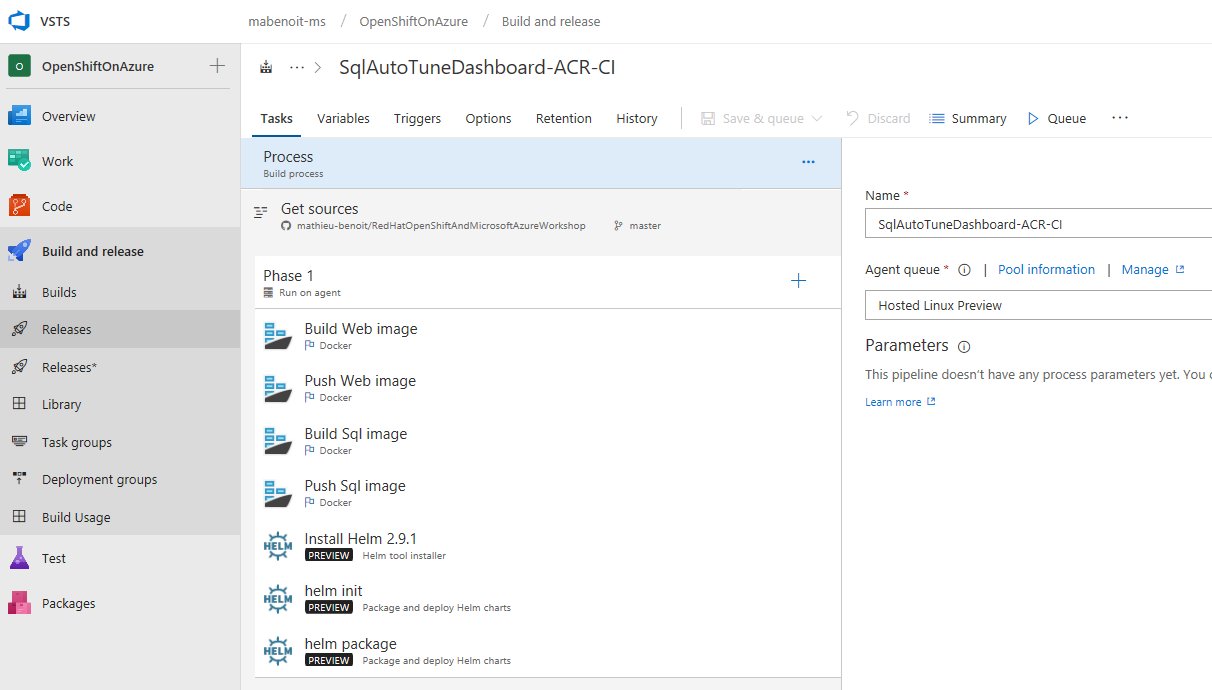
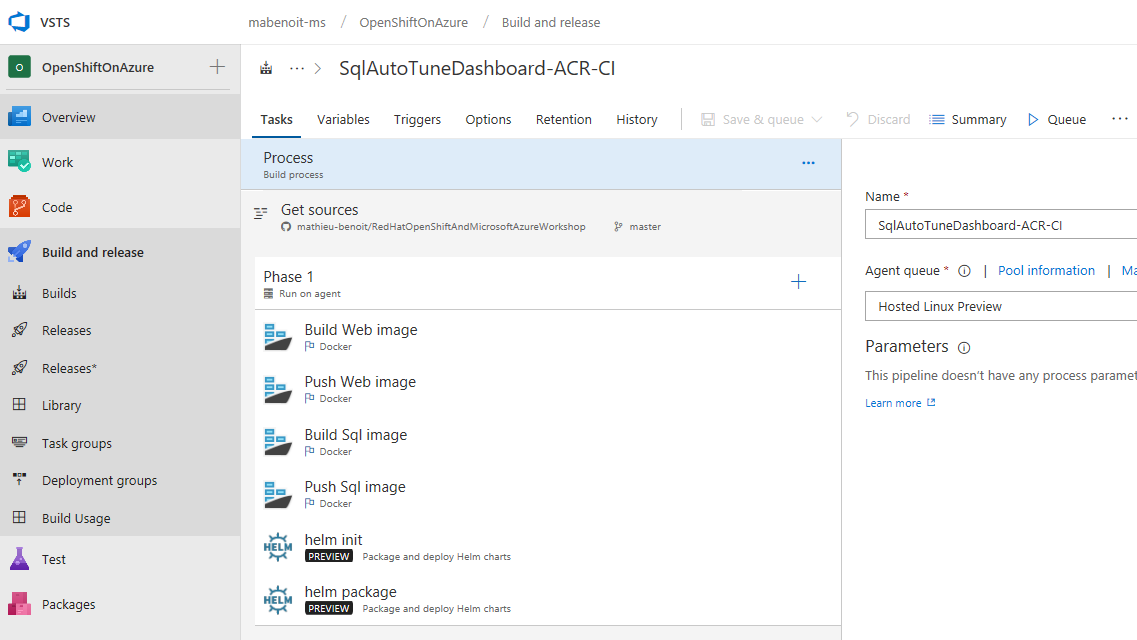
No need to install helm which is already installed on the VSTS agent (Linux)

diff --git a/README.md b/README.md
@@ -187,8 +187,7 @@ High level steps:
 - Docker - Push Web image
 - Docker - Build Sql image
 - Docker - Push Sql image
-- Helm - Install
-- Helm - init
+- Helm - init --client-only
 - Helm - package
 
 See the details of this [build definition in YAML file here](./SqlServerAutoTuningDashboard/VSTS-CI.yml).
